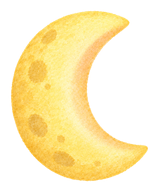
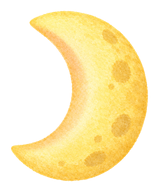
Poprawki z testu 2: własna klawiatura w bramce, animacja bez zanikania, odbity księżyc, ekran startowy z napisem
Claude-Session: https://claude.ai/code/session_01N6AZUDxdt5s1oq6uB2AQcv

diff --git a/src/app/gate.tsx b/src/app/gate.tsx
@@ -1,18 +1,53 @@
 import { Image } from 'expo-image';
 import { router, useLocalSearchParams } from 'expo-router';
 import { useState } from 'react';
-import { ScrollView, TextInput, View } from 'react-native';
+import { Pressable, View } from 'react-native';
 import { useSafeAreaInsets } from 'react-native-safe-area-context';
 
+import { Icon } from '@/components/icon';
 import { Txt } from '@/components/txt';
 import { goBack, ParentHeader, PillButton, useNavBarStyle } from '@/components/ui';
 import { isGateAnswerCorrect, makeGateQuestion } from '@/logic/gate';
-import { fonts, parent } from '@/theme';
+import { parent } from '@/theme';
 import { uiIcons } from '@/ui/media';
 
 const DESTINATIONS = { parent: '/parent', purchase: '/purchase' } as const;
+const MAX_DIGITS = 3;
+const KEYS = ['1', '2', '3', '4', '5', '6', '7', '8', '9', '', '0', 'del'] as const;
 
-/** Bramka rodzica: nowe mnożenie przy każdym otwarciu ekranu. */
+/** Duży przycisk własnej klawiatury numerycznej. */
+function Key({ value, onPress }: { value: (typeof KEYS)[number]; onPress: (v: string) => void }) {
+  if (value === '') return <View style={{ flex: 1 }} />;
+  const isDelete = value === 'del';
+  return (
+    <Pressable
+      onPress={() => onPress(value)}
+      accessibilityRole="button"
+      accessibilityLabel={isDelete ? 'Usuń cyfrę' : value}
+      style={({ pressed }) => ({
+        flex: 1,
+        height: 60,
+        borderRadius: 18,
+        alignItems: 'center',
+        justifyContent: 'center',
+        backgroundColor: pressed ? parent.surfaceStrong : isDelete ? 'transparent' : parent.surface,
+      })}>
+      {isDelete ? (
+        <Icon name="backspace" size={26} color={parent.text} />
+      ) : (
+        <Txt weight="bold" size={26} color={parent.text}>
+          {value}
+        </Txt>
+      )}
+    </Pressable>
+  );
+}
+
+/**
+ * Bramka rodzica: nowe mnożenie przy każdym otwarciu ekranu.
+ * Własna klawiatura zamiast systemowej — systemowa zasłaniała działanie i przycisk,
+ * bo aplikacja rysuje się od krawędzi do krawędzi i okno nie zmniejsza się pod klawiaturą.
+ */
 export default function GateScreen() {
   useNavBarStyle('light');
   const insets = useSafeAreaInsets();
@@ -20,6 +55,12 @@ export default function GateScreen() {
   const [question, setQuestion] = useState(() => makeGateQuestion());
   const [answer, setAnswer] = useState('');
   const [wrong, setWrong] = useState(false);
+
+  const press = (key: string) => {
+    setWrong(false);
+    if (key === 'del') setAnswer((a) => a.slice(0, -1));
+    else setAnswer((a) => (a.length >= MAX_DIGITS ? a : a + key));
+  };
 
   const submit = () => {
     if (isGateAnswerCorrect(question, answer)) {
@@ -33,68 +74,71 @@ export default function GateScreen() {
     setQuestion(makeGateQuestion());
   };
 
+  const rows = [KEYS.slice(0, 3), KEYS.slice(3, 6), KEYS.slice(6, 9), KEYS.slice(9, 12)];
+
   return (
-    // Bez KeyboardAvoidingView: Android sam zmniejsza okno przy klawiaturze
-    // (softwareKeyboardLayoutMode: resize), a podwójne przesuwanie chowało przycisk.
-    <ScrollView
-      keyboardShouldPersistTaps="handled"
-      style={{ flex: 1, backgroundColor: parent.background, marginTop: insets.top }}
-      contentContainerStyle={{ flexGrow: 1, paddingTop: 12, paddingBottom: insets.bottom + 24, paddingHorizontal: 24 }}>
+    <View
+      style={{
+        flex: 1,
+        backgroundColor: parent.background,
+        paddingTop: insets.top + 12,
+        paddingBottom: insets.bottom + 16,
+        paddingHorizontal: 24,
+      }}>
       <ParentHeader onBack={() => goBack('/')} backLabel="Wróć" />
 
-      <View style={{ flex: 1, alignItems: 'center', justifyContent: 'center', gap: 24, paddingVertical: 16 }}>
-        <View style={{ width: 72, height: 72, borderRadius: 36, backgroundColor: parent.surface, alignItems: 'center', justifyContent: 'center' }}>
-          <Image source={uiIcons.lock} style={{ width: 44, height: 44 }} contentFit="contain" />
+      <View style={{ flex: 1, alignItems: 'center', justifyContent: 'center', gap: 14 }}>
+        <View style={{ width: 60, height: 60, borderRadius: 30, backgroundColor: parent.surface, alignItems: 'center', justifyContent: 'center' }}>
+          <Image source={uiIcons.lock} style={{ width: 36, height: 36 }} contentFit="contain" />
         </View>
-        <View style={{ gap: 6, alignItems: 'center' }}>
-          <Txt weight="extrabold" size={26} color={parent.text} accessibilityRole="header">
-            Strefa rodzica
-          </Txt>
-          <Txt size={16} color={parent.textMuted} style={{ textAlign: 'center', maxWidth: 290 }}>
-            Żeby wejść, rozwiąż działanie. Tu są ustawienia i zakupy.
-          </Txt>
-        </View>
-
-        <Txt weight="extrabold" size={44} color={parent.text} accessibilityLabel={`${question.a} razy ${question.b}`}>
-          {question.a} × {question.b} =
+        <Txt weight="extrabold" size={24} color={parent.text} accessibilityRole="header">
+          Strefa rodzica
         </Txt>
-
-        <View style={{ width: '100%', maxWidth: 260, gap: 6 }}>
-          <TextInput
-            value={answer}
-            onChangeText={(t) => {
-              setAnswer(t.replace(/[^\d]/g, '').slice(0, 3));
-              setWrong(false);
-            }}
-            onSubmitEditing={submit}
-            keyboardType="number-pad"
-            returnKeyType="done"
-            maxLength={3}
-            placeholder="?"
-            placeholderTextColor={parent.textMuted}
-            accessibilityLabel="Wynik działania"
-            autoFocus
+        <Txt size={15} color={parent.textMuted} style={{ textAlign: 'center', maxWidth: 290 }}>
+          Żeby wejść, rozwiąż działanie.
+        </Txt>
+        <View style={{ flexDirection: 'row', alignItems: 'center', gap: 14, marginTop: 4 }}>
+          <Txt weight="extrabold" size={38} color={parent.text} accessibilityLabel={`${question.a} razy ${question.b}`}>
+            {question.a} × {question.b} =
+          </Txt>
+          <View
+            accessibilityLabel={answer ? `Wynik: ${answer}` : 'Wynik: pusty'}
             style={{
-              height: 60,
+              minWidth: 92,
+              height: 58,
+              paddingHorizontal: 12,
               borderRadius: 16,
               borderWidth: 1.5,
               borderColor: wrong ? parent.danger : parent.border,
               backgroundColor: parent.input,
-              color: parent.text,
-              fontFamily: fonts.extrabold,
-              fontSize: 28,
-              textAlign: 'center',
-            }}
-          />
-          {wrong && (
-            <Txt size={14} color={parent.danger} style={{ textAlign: 'center' }} accessibilityLiveRegion="polite">
-              To nie to. Spróbuj z nowym działaniem.
+              alignItems: 'center',
+              justifyContent: 'center',
+            }}>
+            <Txt weight="extrabold" size={30} color={answer ? parent.text : parent.textMuted}>
+              {answer || '?'}
             </Txt>
-          )}
+          </View>
         </View>
+        <Txt
+          size={14}
+          color={parent.danger}
+          style={{ textAlign: 'center', minHeight: 20, opacity: wrong ? 1 : 0 }}
+          accessibilityLiveRegion="polite">
+          {wrong ? 'To nie to. Spróbuj z nowym działaniem.' : ' '}
+        </Txt>
+      </View>
+
+      <View style={{ gap: 10, marginBottom: 16 }}>
+        {rows.map((row, i) => (
+          <View key={i} style={{ flexDirection: 'row', gap: 10 }}>
+            {row.map((k, j) => (
+              <Key key={`${i}-${j}`} value={k} onPress={press} />
+            ))}
+          </View>
+        ))}
       </View>
 
       <PillButton label="Wejdź" onPress={submit} disabled={answer.length === 0} height={56} />
-    </ScrollView>
+    </View>
   );
 }

diff --git a/src/components/hedgehog-intro.tsx b/src/components/hedgehog-intro.tsx
@@ -1,44 +1,45 @@
-import { useEventListener } from 'expo';
 import { useVideoPlayer, VideoView } from 'expo-video';
 import { useEffect, useRef, useState } from 'react';
-import { Animated, StyleSheet } from 'react-native';
+import { StyleSheet } from 'react-native';
 
 import type { Daypart } from '@/logic/daypart';
 import { wallpaperAnimations } from '@/ui/media';
 
 /**
- * Tempo animacji jeżyka. Klip trwa 5 s; 1 = naturalne tempo.
+ * Tempo animacji jeżyka. Klip trwa ~5,2 s; 1 = naturalne tempo.
  * Do ustalenia po testach na telefonie (np. 1.5–2 skraca do 2,5–3,5 s).
  */
 export const INTRO_PLAYBACK_RATE = 1;
 
-/** Zanikanie zaczyna się tyle sekund przed końcem klipu (czas filmu, nie zegara). */
-const FADE_BEFORE_END = 0.6;
-const FADE_MS = 450;
+/** Długość klipu w sekundach (wszystkie trzy animacje: 124 klatki przy 24 kl./s). */
+const CLIP_SECONDS = 5.17;
+/** Pauza tyle sekund przed końcem — jeżyk już się nie rusza, a odtwarzacz nie dochodzi do końca. */
+const STOP_BEFORE_END = 0.25;
 
 // Animacja leci raz na uruchomienie aplikacji, nie przy każdym powrocie na ekran.
 let playedThisLaunch = false;
 
 /**
- * Jednorazowa animacja jeżyka nałożona na tapetę. Ostatnia klatka klipu jest
- * identyczna z tapetą, więc warstwa wideo może zniknąć, zanim klip się skończy.
+ * Jednorazowa animacja jeżyka nałożona na tapetę. Ostatnie klatki klipu są
+ * identyczne z tapetą, więc warstwę można schować bez żadnego przejścia.
  *
- * Odtwarzacz Androida po ostatniej klatce czyści obraz na czarno, dlatego:
- * - warstwa pojawia się dopiero po wyrenderowaniu pierwszej klatki,
- * - zanika przed końcem klipu, a nie po nim.
+ * Bez zanikania: na Androidzie półprzezroczysta warstwa wideo odsłania czerń
+ * zamiast tapety (potwierdzone nagraniem ekranu). Dlatego:
+ * - warstwa jest widoczna dopiero po wyrenderowaniu pierwszej klatki,
+ * - zegar aplikacji (nie zdarzenia odtwarzacza) zatrzymuje klip pauzą tuż
+ *   przed końcem, na nieruchomej klatce, i od razu usuwa warstwę.
  * Bez dźwięku i bez blokowania dotyku: bajki są klikalne od pierwszej chwili.
  */
 export function HedgehogIntro({ daypart }: { daypart: Daypart }) {
   const [visible, setVisible] = useState(!playedThisLaunch);
-  const [opacity] = useState(() => new Animated.Value(0));
-  const fading = useRef(false);
+  const [started, setStarted] = useState(false);
+  const stopTimer = useRef<ReturnType<typeof setTimeout> | null>(null);
 
   const player = useVideoPlayer(visible ? wallpaperAnimations[daypart] : null, (p) => {
     p.muted = true;
     p.loop = false;
     p.audioMixingMode = 'mixWithOthers';
     p.playbackRate = INTRO_PLAYBACK_RATE;
-    p.timeUpdateEventInterval = 0.1;
     p.play();
   });
 
@@ -46,40 +47,42 @@ export function HedgehogIntro({ daypart }: { daypart: Daypart }) {
     playedThisLaunch = true;
   }, []);
 
-  const fadeOut = () => {
-    if (fading.current) return;
-    fading.current = true;
-    Animated.timing(opacity, { toValue: 0, duration: FADE_MS, useNativeDriver: true }).start(() => setVisible(false));
-  };
+  // Start zegara liczony od pierwszej wyrenderowanej klatki.
+  useEffect(() => {
+    if (!started) return;
+    const ms = ((CLIP_SECONDS - STOP_BEFORE_END) / INTRO_PLAYBACK_RATE) * 1000;
+    stopTimer.current = setTimeout(() => {
+      try {
+        player.pause();
+      } catch {
+        // Odtwarzacz mógł już zostać zwolniony — i tak chowamy warstwę.
+      }
+      setVisible(false);
+    }, ms);
+    return () => {
+      if (stopTimer.current) clearTimeout(stopTimer.current);
+    };
+  }, [started, player]);
 
-  useEventListener(player, 'timeUpdate', ({ currentTime }) => {
-    const duration = player.duration;
-    if (duration > 0 && currentTime >= duration - FADE_BEFORE_END) fadeOut();
-  });
-
-  // Gdyby zdarzenie czasu nie dotarło, koniec klipu i tak schowa warstwę.
-  useEventListener(player, 'playToEnd', () => fadeOut());
-
-  // Zabezpieczenie: gdyby klip się nie odtworzył, warstwa i tak zniknie.
+  // Zabezpieczenie: gdyby klip się w ogóle nie odtworzył, warstwa i tak zniknie.
   useEffect(() => {
     if (!visible) return;
-    const id = setTimeout(() => setVisible(false), (5 / INTRO_PLAYBACK_RATE) * 1000 + 3000);
+    const id = setTimeout(() => setVisible(false), (CLIP_SECONDS / INTRO_PLAYBACK_RATE) * 1000 + 3000);
     return () => clearTimeout(id);
   }, [visible]);
 
   if (!visible) return null;
 
   return (
-    <Animated.View pointerEvents="none" style={[StyleSheet.absoluteFill, { opacity }]}>
-      <VideoView
-        player={player}
-        style={StyleSheet.absoluteFill}
-        contentFit="cover"
-        nativeControls={false}
-        surfaceType="textureView"
-        accessible={false}
-        onFirstFrameRender={() => opacity.setValue(1)}
-      />
-    </Animated.View>
+    <VideoView
+      player={player}
+      pointerEvents="none"
+      style={[StyleSheet.absoluteFill, { opacity: started ? 1 : 0 }]}
+      contentFit="cover"
+      nativeControls={false}
+      surfaceType="textureView"
+      accessible={false}
+      onFirstFrameRender={() => setStarted(true)}
+    />
   );
 }

diff --git a/src/components/icon.tsx b/src/components/icon.tsx
@@ -18,6 +18,7 @@ const icons = {
   done: { android: 'check_circle', ios: 'checkmark.circle.fill' },
   minus: { android: 'remove', ios: 'minus' },
   plus: { android: 'add', ios: 'plus' },
+  backspace: { android: 'backspace', ios: 'delete.left' },
 } satisfies Record<string, { android: AndroidName; ios: IosName }>;
 
 export type IconName = keyof typeof icons;

diff --git a/README.md b/README.md
@@ -7,11 +7,11 @@ Projekt graficzny: makieta „Usypianki – makieta MVP” (Claude Design). Decy
 ## Co jest w wersji testowej
 
 - **Trzy pory dnia** (dzień od 06:00, wieczór od 17:00, noc od 19:00 — zmienia rodzic): tapeta, niebo, kolory, przycisk słońce/księżyc.
-- **Powitanie**: jednorazowa, bezgłośna animacja jeżyka na tapecie przy uruchomieniu; bajki klikalne od razu.
+- **Start**: systemowy ekran startowy (księżyc + napis „Usypianki”), potem jednorazowa, bezgłośna animacja jeżyka na tapecie; kończy się pauzą na ostatniej klatce, bez przenikania; bajki klikalne od razu.
 - **Odtwarzacz**: tło nieba, drewniana strzałka „Wróć”, ±15 s, odtwarzanie w tle i z ekranu blokady, wznawianie od miejsca przerwania.
 - **Po bajce** (przycisk z klepsydrą): Cisza albo Spokojna melodia 10 min (plik z wbudowanym wyciszeniem); wybór zapamiętany. Bajka nigdy nie jest ściszana, kolejna nie włącza się sama.
 - **Tryb nocny**: płynne przyciemnienie okna aplikacji do ~10%, dotyk rozjaśnia na 10 s ze sterowaniem; po wyjściu jasność wraca.
-- **Bramka rodzica**: mnożenie przez 3 (druga liczba 1–9, losowa kolejność), nowe przy każdym otwarciu.
+- **Bramka rodzica**: mnożenie przez 3 (druga liczba 1–9, losowa kolejność), nowe przy każdym otwarciu; własna klawiatura numeryczna (bez klawiatury systemowej).
 - **Strefa rodzica**: słuchanie bez internetu (na górze), pory dnia, przypomnienie (przełącznik), zarządzanie pobranymi.
 - **Wszystkie bajki**: karuzela do 10 bajek z kafelkiem „Wszystkie bajki →” i ekran z pełną siatką.
 - **Pobieranie offline** (9,99 zł w wydaniu sklepowym): w wersji testowej odblokowanie bez płatności; „Pobierz” w odtwarzaczu, lista w „Pobrane” bez koszy, usuwanie tylko w Strefie rodzica.
